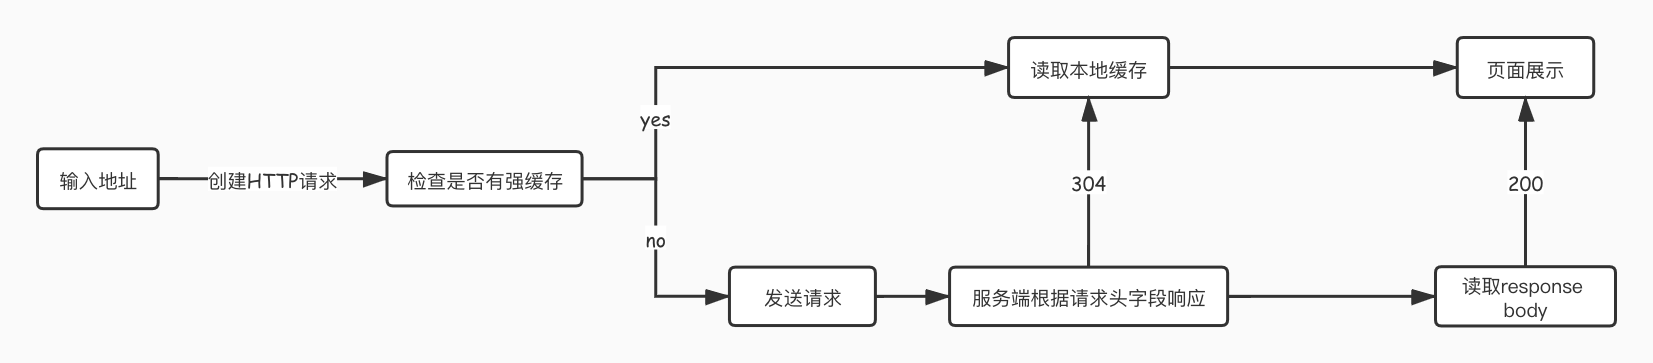
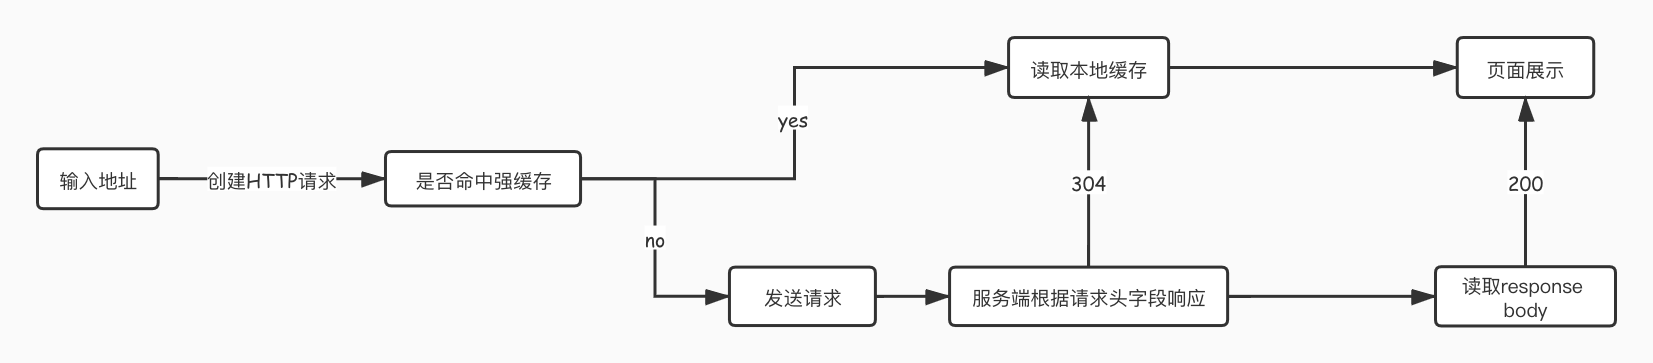
feat: update

diff --git a/docs/browser/cache.md b/docs/browser/cache.md
@@ -1,1 +1,5 @@
-# 浏览器的缓存策略
+# 浏览器缓存策略
+浏览器根据特定的规则缓存相应的HTTP请求响应。对于缓存内容的后续请求便可以直接由缓存满足而不是重新发送请求到Web服务器。
+![cache](../assets/cache.jpg)
+## 强缓存
+## 协商缓存
